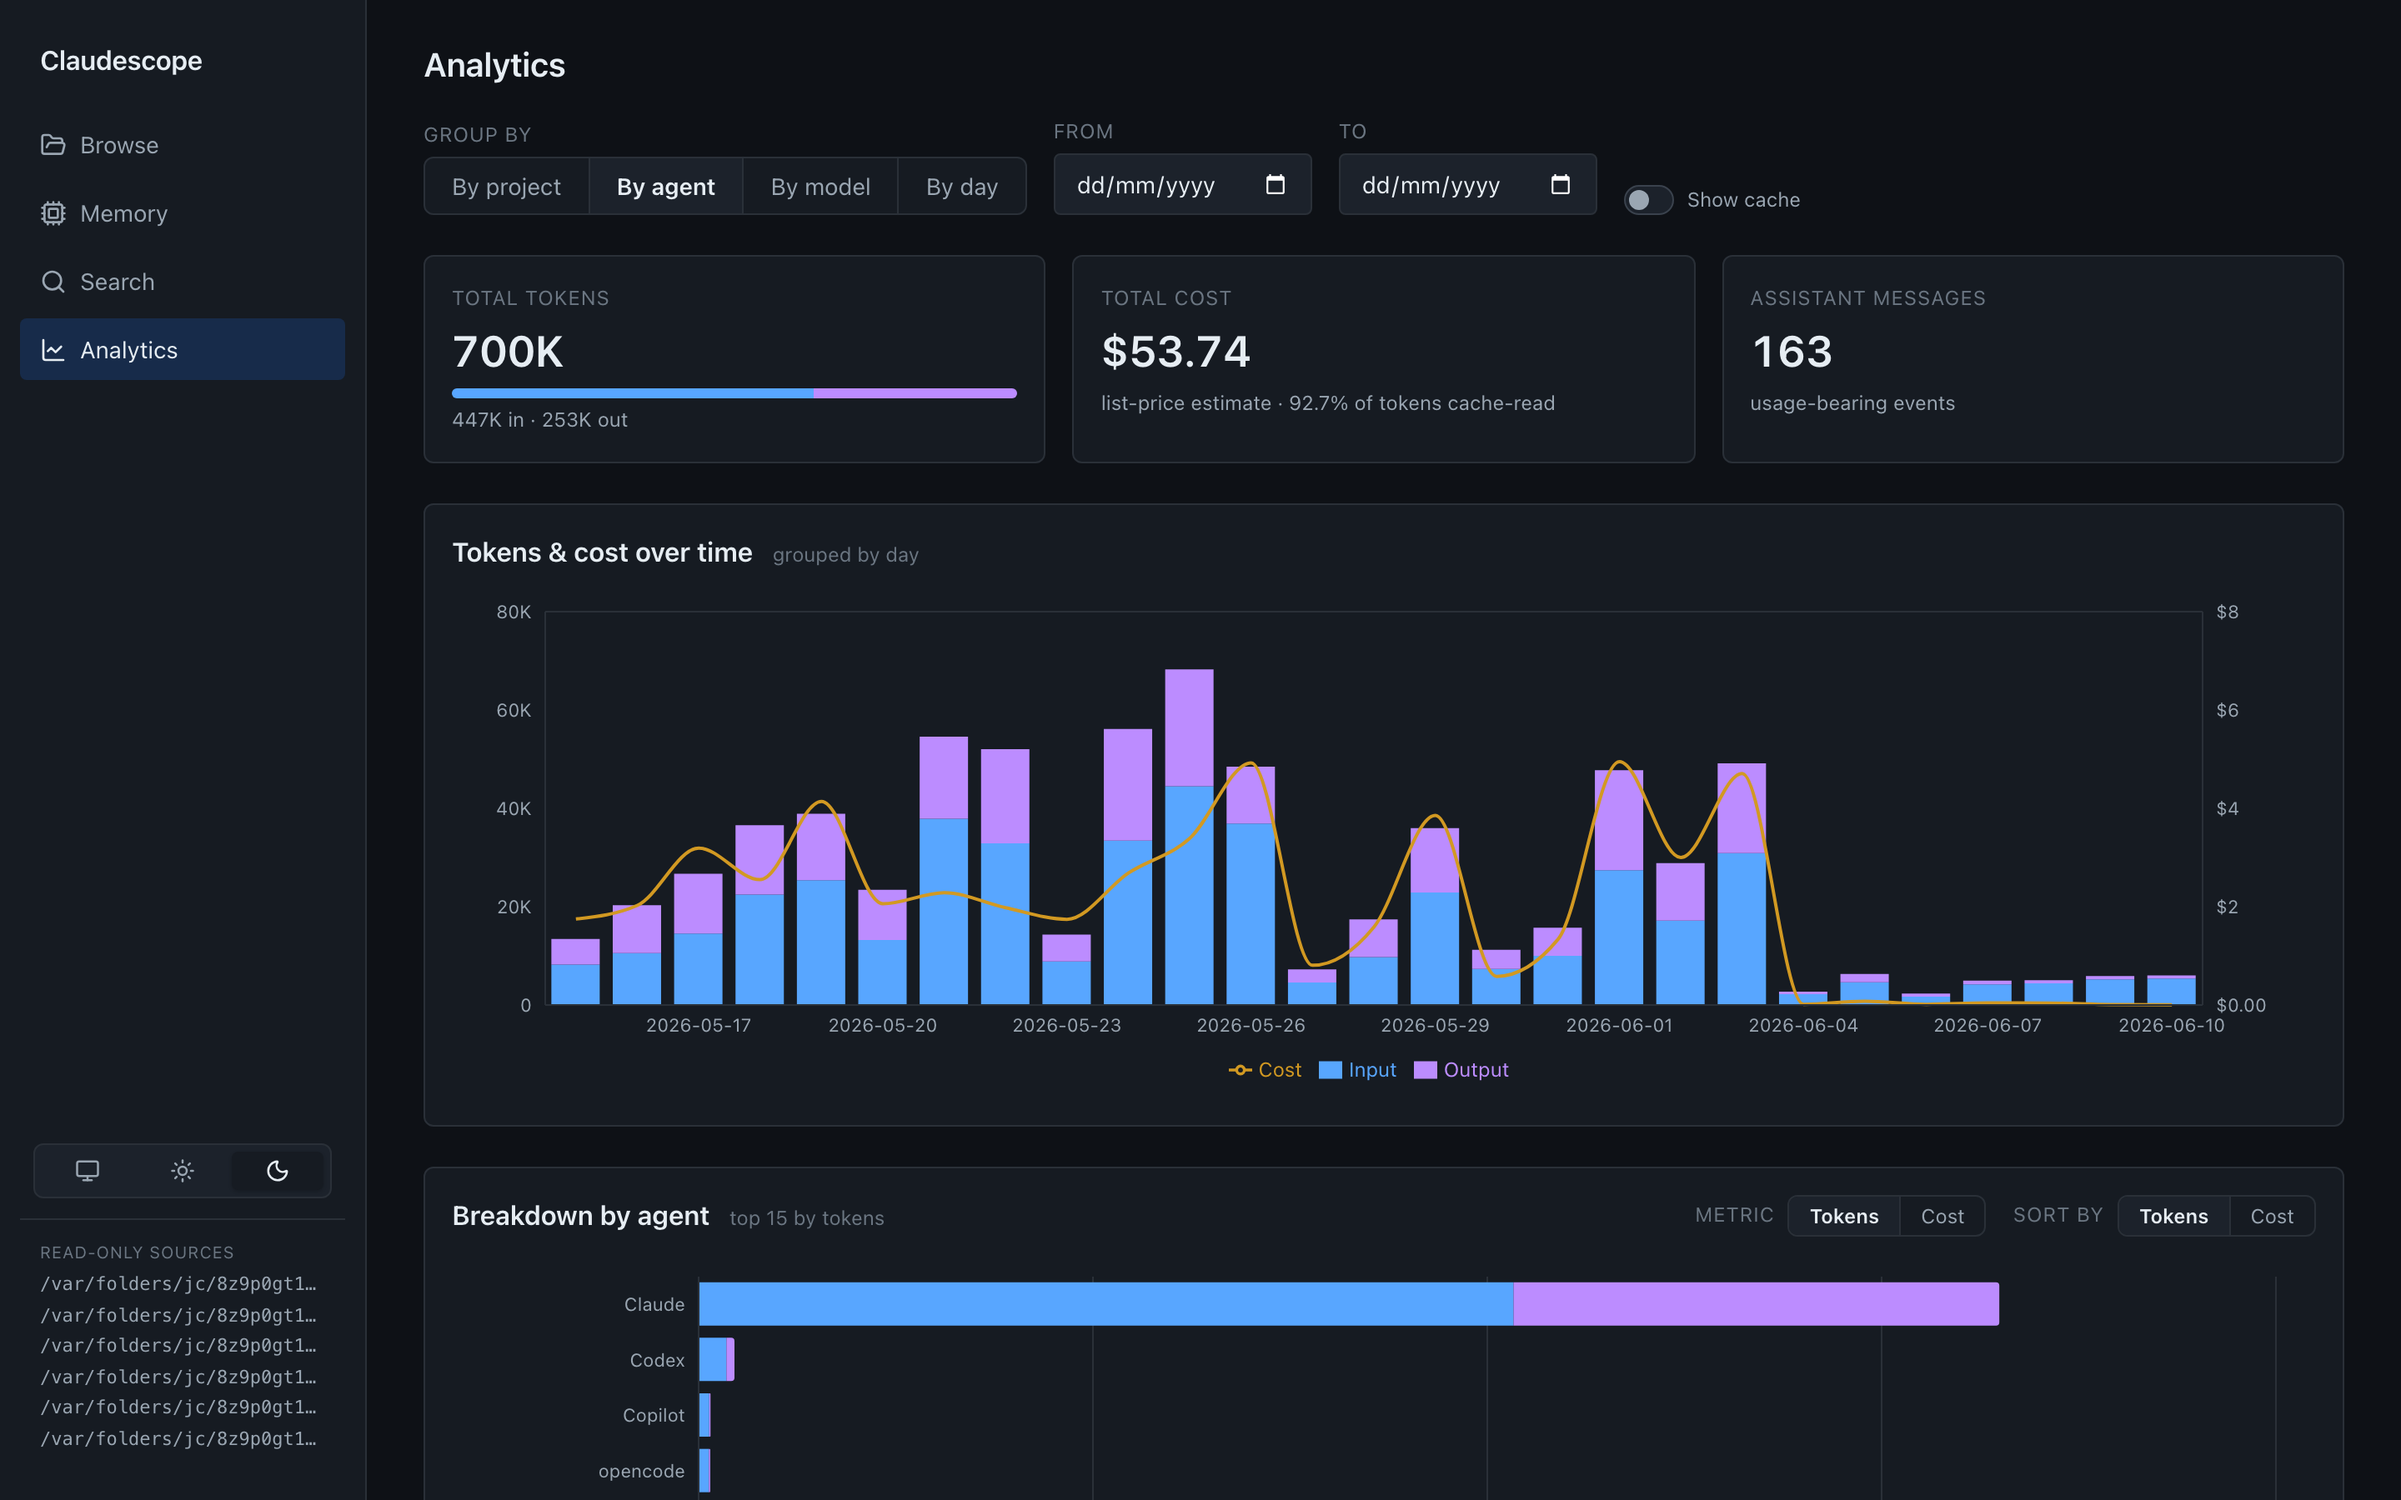
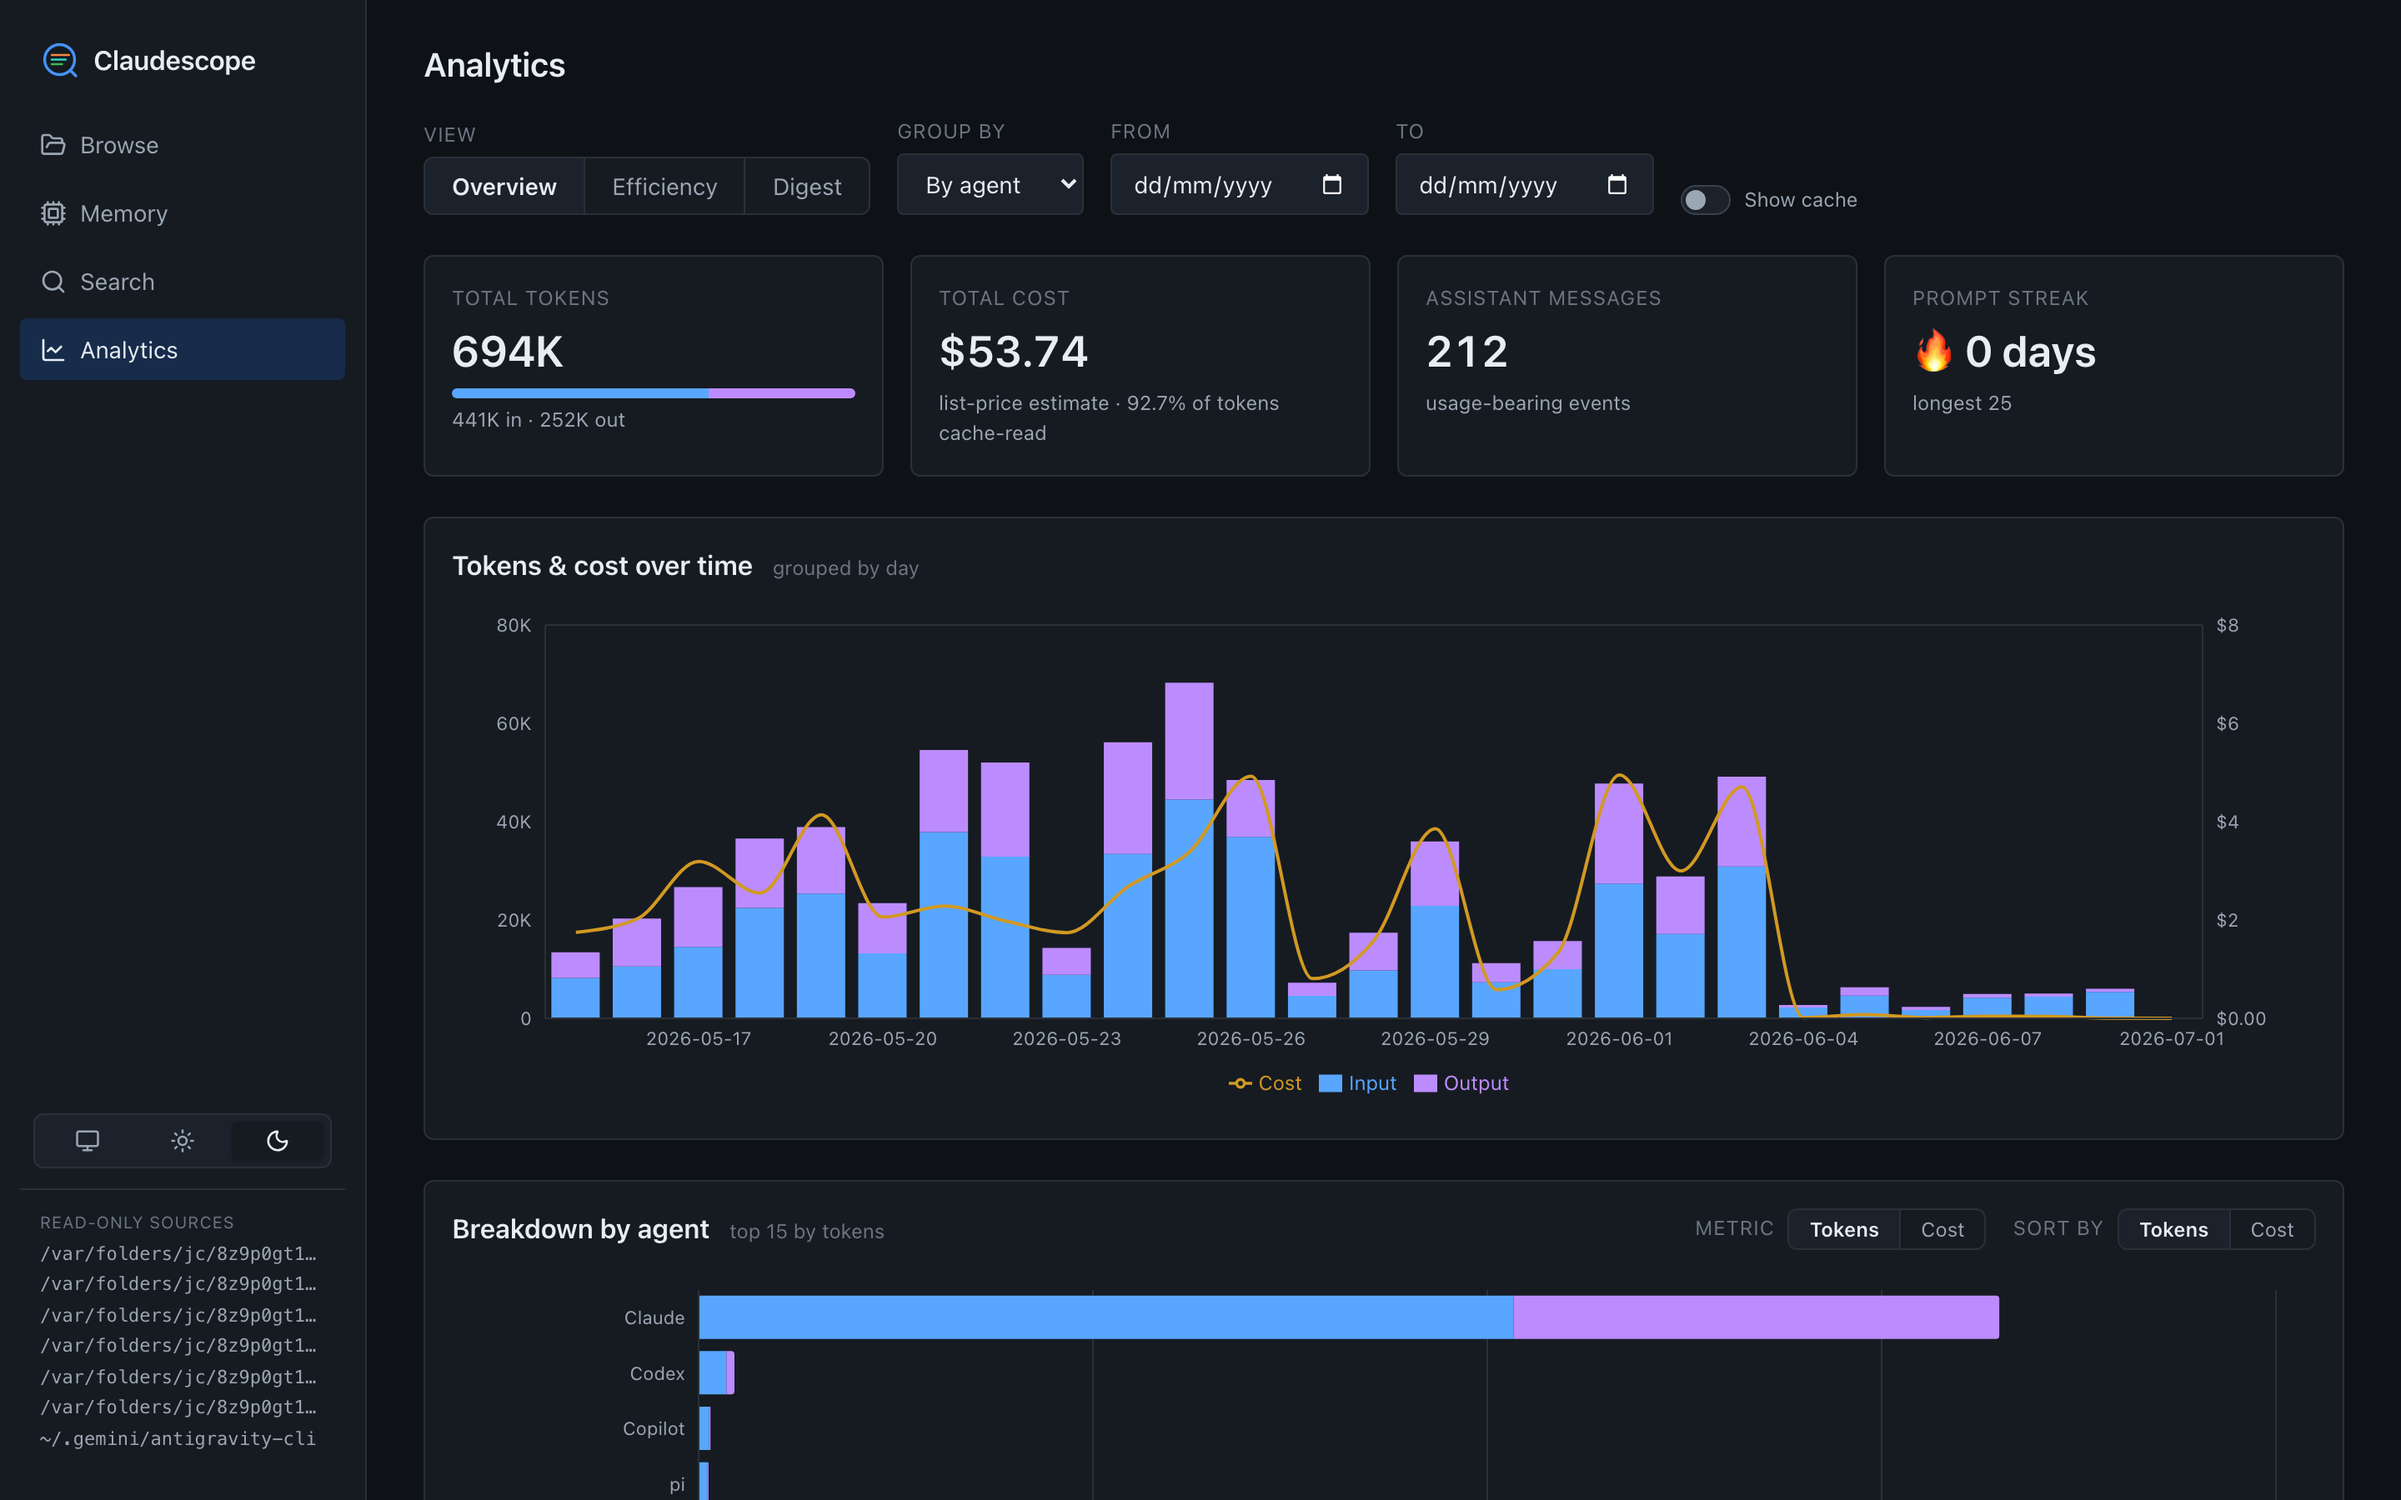
docs: release prep — CLI/MCP in the agent guide, Efficiency section + screenshot, roadmap 0035 done

diff --git a/README.md b/README.md
@@ -96,6 +96,18 @@ agent**, with a cache-read breakdown. Click a chart legend to toggle a series.
   <img alt="Token and cost analytics dashboard" src="docs/screenshots/analytics-light.png">
 </picture>
 
+**Compare** — the Efficiency tab puts every agent head-to-head on one scorecard:
+cost, tokens per response, cache hit ratio, subagent usage, **tool-error rate**,
+and interrupts — honestly. A metric an agent's format can't report shows as
+*n/a* with the reason, never a fake 0. Flip the grain to hunt outlier
+**sessions** instead, and a **Digest** view sums up your week (copy it as
+Markdown, or run `claudescope digest` in a terminal).
+
+<picture>
+  <source media="(prefers-color-scheme: dark)" srcset="docs/screenshots/efficiency-dark.png">
+  <img alt="Efficiency: cross-agent comparison scorecard with n/a-aware metrics" src="docs/screenshots/efficiency-light.png">
+</picture>
+
 **Remember** — every agent's memory in one place: global instruction files
 (`CLAUDE.md`, `AGENTS.md`, Copilot instructions) and Claude Code's
 **agent-distilled per-project facts**, each with provenance and category. Read

diff --git a/docs/plans/README.md b/docs/plans/README.md
@@ -59,7 +59,7 @@ decision, or a change worth explaining before doing. Skip it for one-line fixes.
 | 0032 | [Subagent embedding for Codex, pi, opencode, Copilot](./0032-subagent-embedding-connectors.md) | done |
 | 0033 | [Symlink-safe image resolution](./0033-symlink-safe-image-resolution.md) | done |
 | 0034 | [Restore reader's place after a full reload (Safari ⌘R)](./0034-safari-reload-scroll-restore.md) | done |
-| 0035 | [Roadmap: agent-facing access (MCP + CLI) & analytics depth](./0035-agent-access-and-analytics-roadmap.md) | proposed |
+| 0035 | [Roadmap: agent-facing access (MCP + CLI) & analytics depth](./0035-agent-access-and-analytics-roadmap.md) | done |
 | 0036 | [API seams for agent consumers (windowing, limits, plain snippets, shared redact/markdown)](./0036-agent-api-seams.md) | done |
 | 0037 | [Cross-agent comparison analytics](./0037-cross-agent-comparison.md) | done |
 | 0038 | [`claudescope mcp`: agent-facing MCP server](./0038-mcp-server.md) | done |

diff --git a/CLAUDE.md b/CLAUDE.md
@@ -63,7 +63,9 @@ npm run typecheck   # tsc -b across all packages
 npm run bundle      # assemble the single publishable package into dist/
 ```
 
-The shipped CLI (after install) is `claudescope {start|stop|status|restart|logs|open|update|pricing update}`.
+The shipped CLI (after install) is `claudescope {start|stop|status|restart|logs|open|update|pricing update}`,
+plus read-only query subcommands (`search|sessions|session|projects|analytics|digest`, `--json` for scripts)
+and `claudescope mcp` — a stdio MCP server that proxies the daemon (agents query their own history).
 
 ## Distribution model
 

diff --git a/docs/plans/0035-agent-access-and-analytics-roadmap.md b/docs/plans/0035-agent-access-and-analytics-roadmap.md
@@ -1,6 +1,6 @@
 # 0035 — Roadmap: agent-facing access (MCP + CLI) & analytics depth
 
-- **Status:** proposed
+- **Status:** done <!-- slices 1-7 shipped (plans 0036-0042 + 0043); row-8 follow-ups (HTTP /mcp, MCP digest tool, contribution calendar) remain open ideas -->
 - **Date:** 2026-07-03
 - **PR:** [#47](https://github.com/vladar107/claudescope/pull/47)
 
